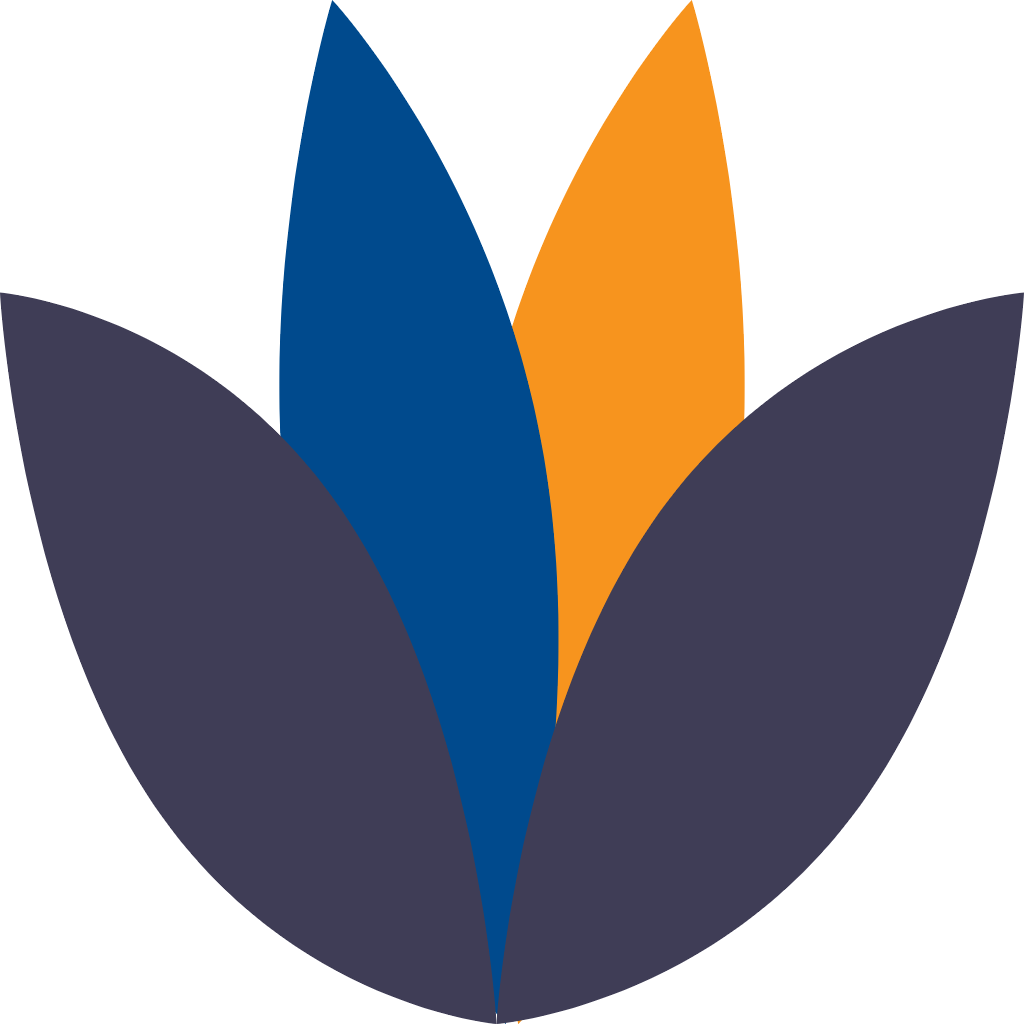
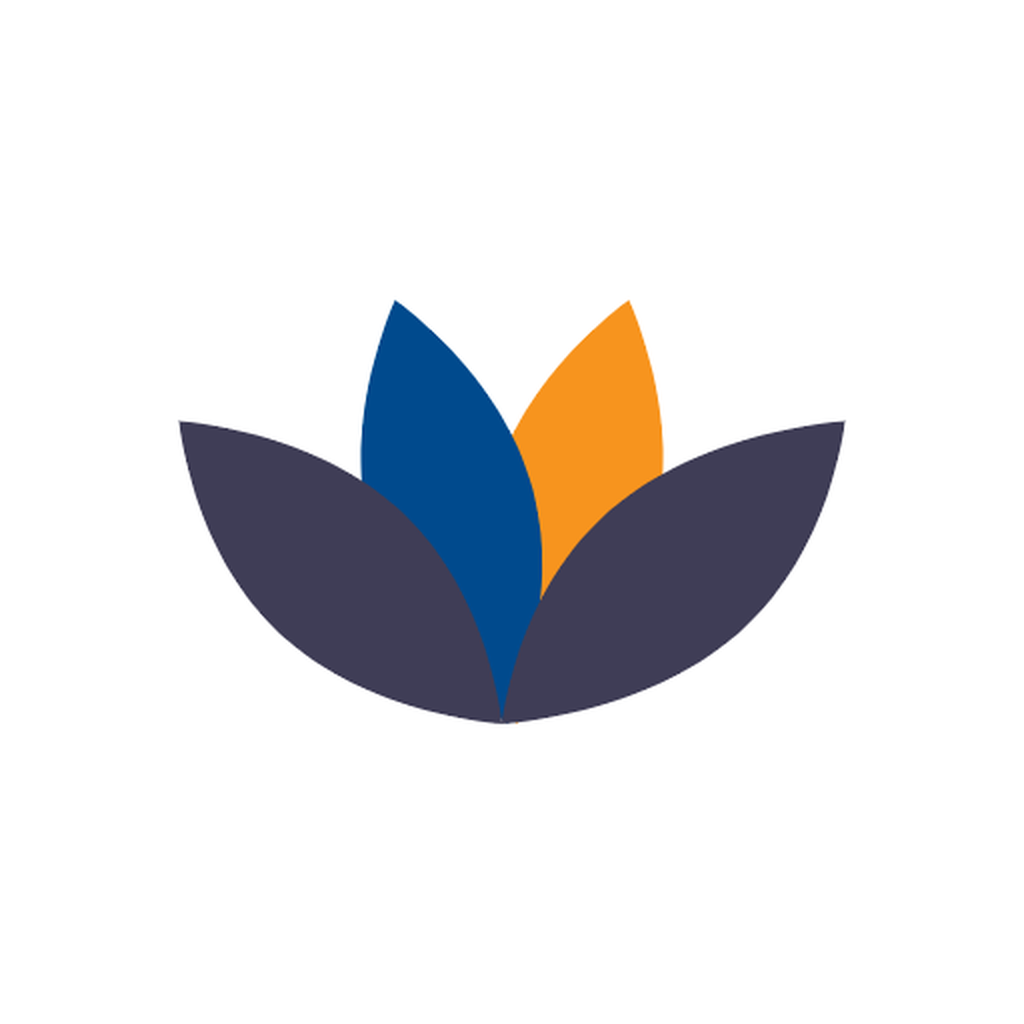
update

diff --git a/index.html b/index.html
@@ -11,14 +11,17 @@
     <link href="/assets/img/logo-rodape.svg" rel="icon">
     <link rel="manifest" href="manifest.json" />
     <!-- ios support -->
-    <link rel="apple-touch-icon" href="assets/img/72.png" />
-    <link rel="apple-touch-icon" href="assets/img/96.png" />
-    <link rel="apple-touch-icon" href="assets/img/128.png" />
-    <link rel="apple-touch-icon" href="assets/img/144.png" />
-    <link rel="apple-touch-icon" href="assets/img/152.png" />
-    <link rel="apple-touch-icon" href="assets/img/192.png" />
-    <link rel="apple-touch-icon" href="assets/img/384.png" />
-    <link rel="apple-touch-icon" href="assets/img/512.png" />
+    <link rel="apple-touch-icon" type="image/png" sizes="29x29" href="assets/img/29.png">
+    <link rel="apple-touch-icon" type="image/png" sizes="40x40" href="assets/img/40.png">
+    <link rel="apple-touch-icon" type="image/png" sizes="57x57" href="assets/img/57.png">
+    <link rel="apple-touch-icon" type="image/png" sizes="58x58" href="assets/img/58.png">
+    <link rel="apple-touch-icon" type="image/png" sizes="60x60" href="assets/img/60.png">
+    <link rel="apple-touch-icon" type="image/png" sizes="80x80" href="assets/img/80.png">
+    <link rel="apple-touch-icon" type="image/png" sizes="87x87" href="assets/img/87.png">
+    <link rel="apple-touch-icon" type="image/png" sizes="114x114" href="assets/img/114.png">
+    <link rel="apple-touch-icon" type="image/png" sizes="120x120" href="assets/img/120.png">
+    <link rel="apple-touch-icon" type="image/png" sizes="180x180" href="assets/img/180.png">
+    <link rel="apple-touch-icon" type="image/png" sizes="1024x1024" href="assets/img/1024.png">
     <meta name="apple-mobile-web-app-status-bar" content="#db4938" />
     <meta name="theme-color" content="#F9F9F9" />
     <title>Self Check</title>
